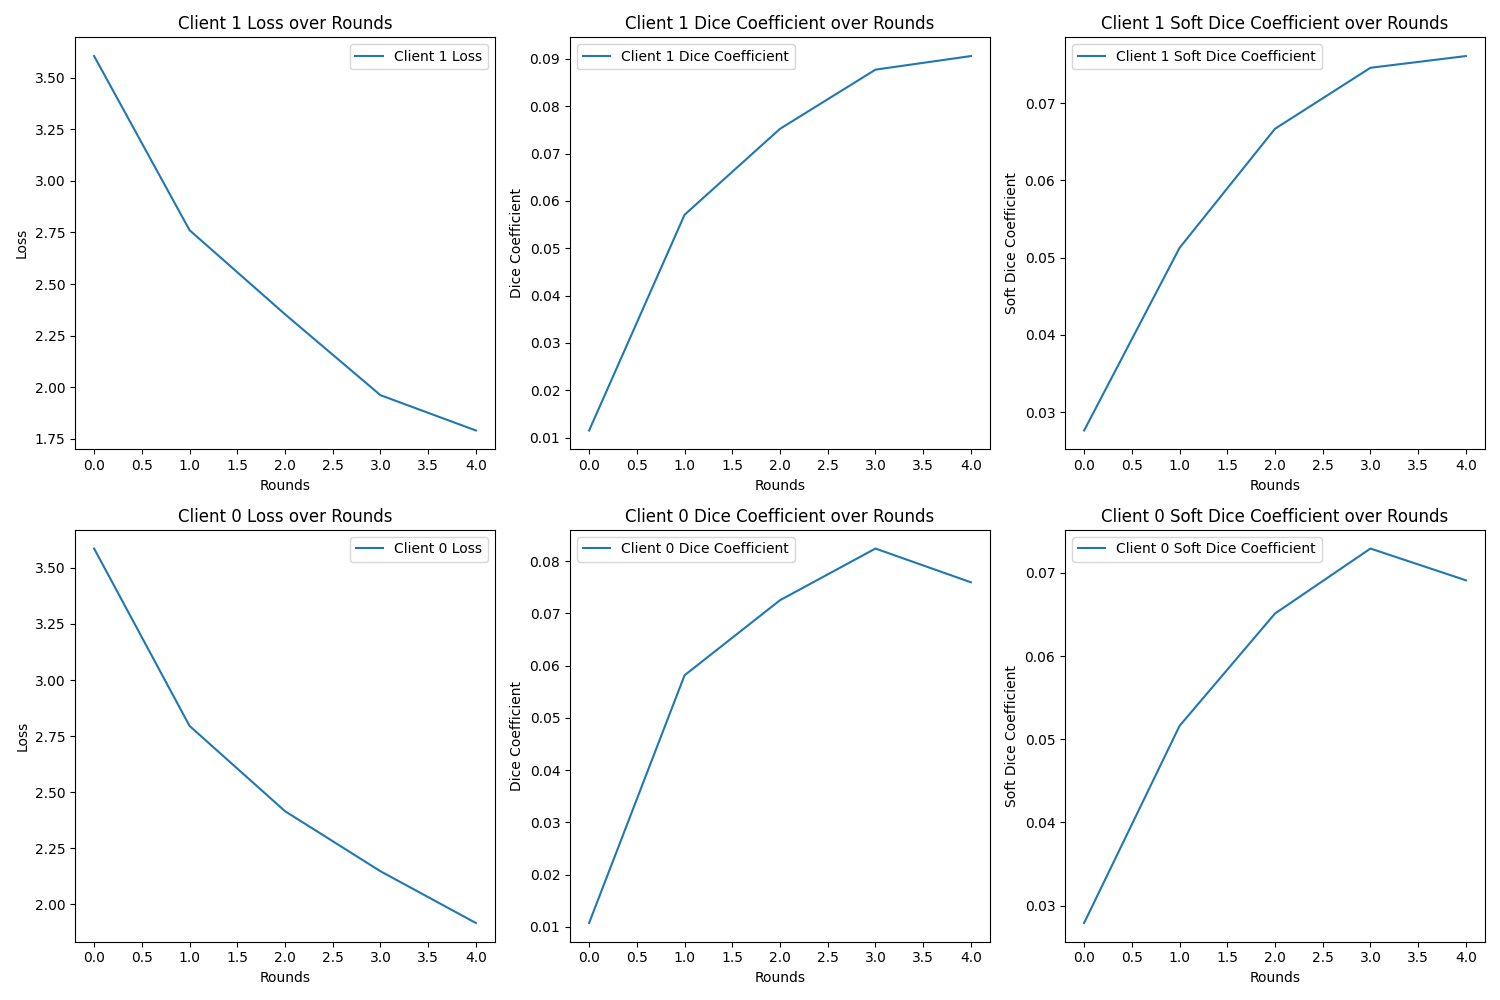
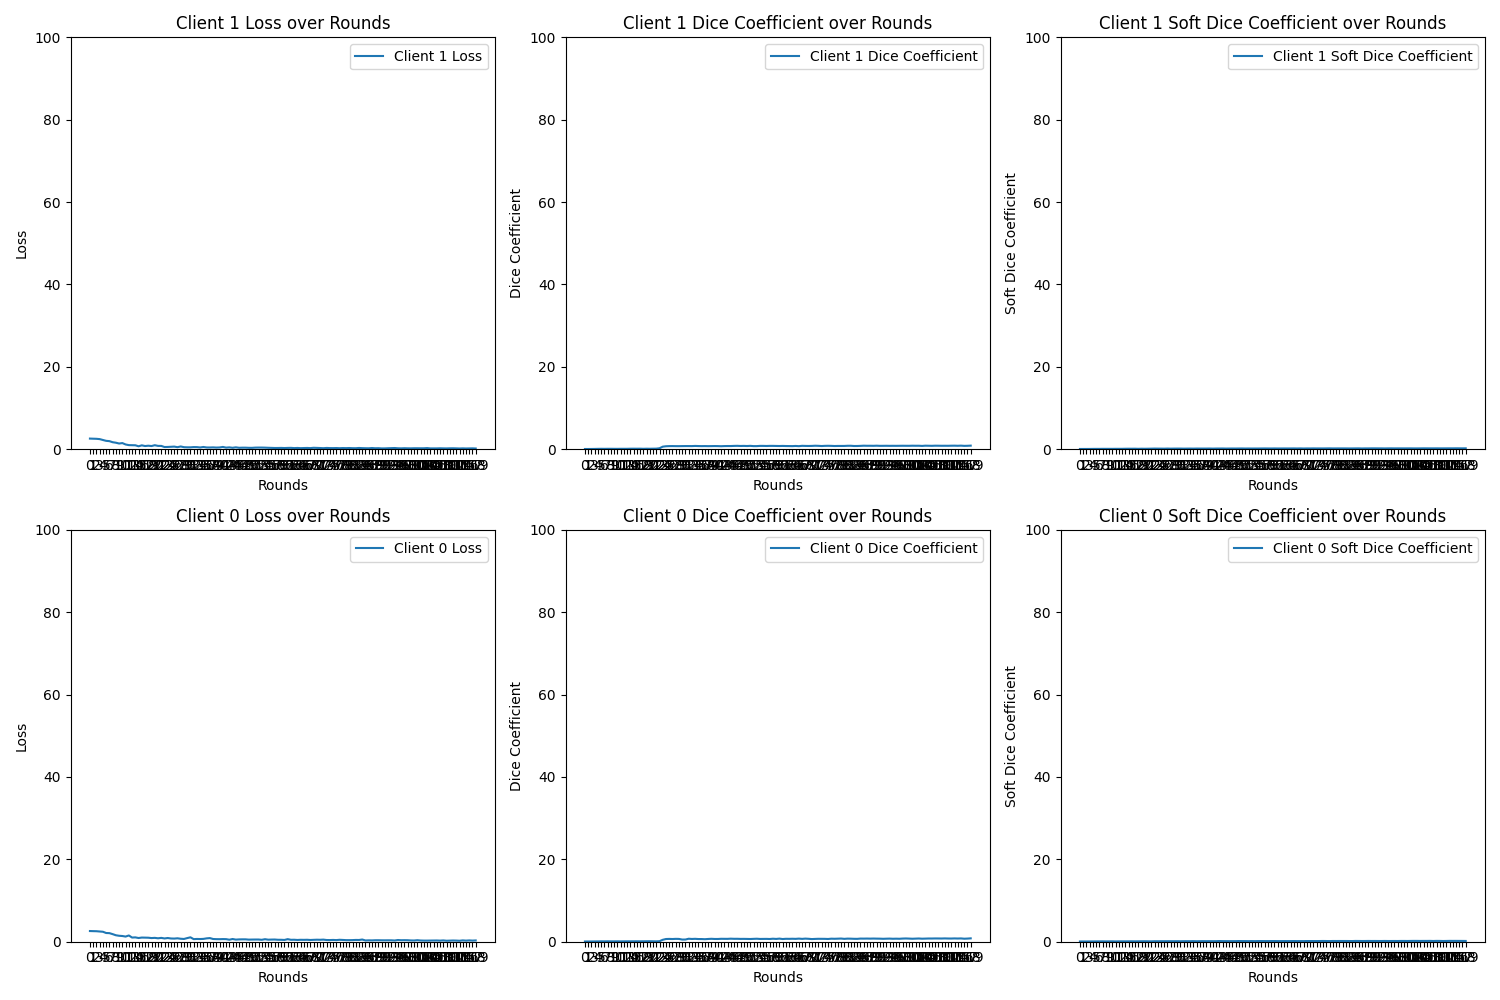
plot updates

diff --git a/Flower_New_Adapted_Flwr_1_5/my_sim.py b/Flower_New_Adapted_Flwr_1_5/my_sim.py
@@ -514,7 +514,7 @@ def weighted_average(metrics: List[Tuple[int, dict]]) -> dict:
         "soft_dice_coef": sum(soft_dice_coef) / sum(examples)
     }
 
-class CustomFedAvg(fl.server.strategy.FedAvg):
+class CustomFedAvg(fl.server.strategy.FedAvg):#FedAdam
     def __init__(self, *args, **kwargs):
         super().__init__(*args, **kwargs)
         self.client_metrics = defaultdict(list)  # Store metrics for each client
@@ -576,9 +576,8 @@ def main(cfg: DictConfig) -> None:
             cfg.num_clients * 1
         ),  # Wait until at least n clients are available
         on_fit_config_fn=get_on_fit_config(cfg.config_fit),
-        # NOTE to debug i commented the line below
         evaluate_metrics_aggregation_fn=weighted_average,  # aggregates federated metrics
-        evaluate_fn=get_evaluate_fn(testloader, input_shape, output_shape),  # global evaluation function
+        evaluate_fn=get_evaluate_fn(testloader, input_shape, output_shape),  # global evaluation function # evaluate aggregated model on test set
     )
     
     # With a dictionary, you tell Flower's VirtualClientEngine that each
@@ -615,14 +614,18 @@ def main(cfg: DictConfig) -> None:
         np.save(f'client_{client_id}_dice_coefs.npy', dice_coefs)
         np.save(f'client_{client_id}_soft_dice_coefs.npy', soft_dice_coefs)
 
+        losses = [100.0 * data for data in losses]
+        dice_coefs = [100.0 * data for data in dice_coefs]
+        soft_dice_coefs = [100.0 * data for data in soft_dice_coefs]
+
         # Plotting Loss for the client
         plt.subplot(len(strategy.client_metrics), 3, idx * 3 + 1)
         plt.plot(losses, label=f'Client {client_id} Loss')
         plt.title(f'Client {client_id} Loss over Rounds')
         plt.xlabel('Rounds')
         plt.ylabel('Loss')
-        plt.xticks(range(len(losses)))
-        plt.ylim(0, 100)  # set y-axis range to 0-100
+        plt.xticks(range(0,len(losses)+10),10)
+        # plt.ylim(0, 100)  # set y-axis range to 0-100
         plt.legend()
 
         # Plotting Dice Coefficient for the client
@@ -630,9 +633,9 @@ def main(cfg: DictConfig) -> None:
         plt.plot(dice_coefs, label=f'Client {client_id} Dice Coefficient')
         plt.title(f'Client {client_id} Dice Coefficient over Rounds')
         plt.xlabel('Rounds')
-        plt.ylabel('Dice Coefficient')
-        plt.xticks(range(len(dice_coefs)))
-        plt.ylim(0, 100)  # set y-axis range to 0-100
+        plt.ylabel('Dice Coefficient (%)')
+        plt.xticks(range(0,len(dice_coefs)+10),10)
+        # plt.ylim(0, 100)  # set y-axis range to 0-100
         plt.legend()
 
         # Plotting Soft Dice Coefficient for the client
@@ -640,9 +643,9 @@ def main(cfg: DictConfig) -> None:
         plt.plot(soft_dice_coefs, label=f'Client {client_id} Soft Dice Coefficient')
         plt.title(f'Client {client_id} Soft Dice Coefficient over Rounds')
         plt.xlabel('Rounds')
-        plt.ylabel('Soft Dice Coefficient')
-        plt.xticks(range(len(soft_dice_coefs)))
-        plt.ylim(0, 100)  # set y-axis range to 0-100
+        plt.ylabel('Soft Dice Coefficient (%)')
+        plt.xticks(range(0,len(soft_dice_coefs)+10),10)
+        # plt.ylim(0, 100)  # set y-axis range to 0-100
         plt.legend()
 
     # Adjust layout and display the plots
